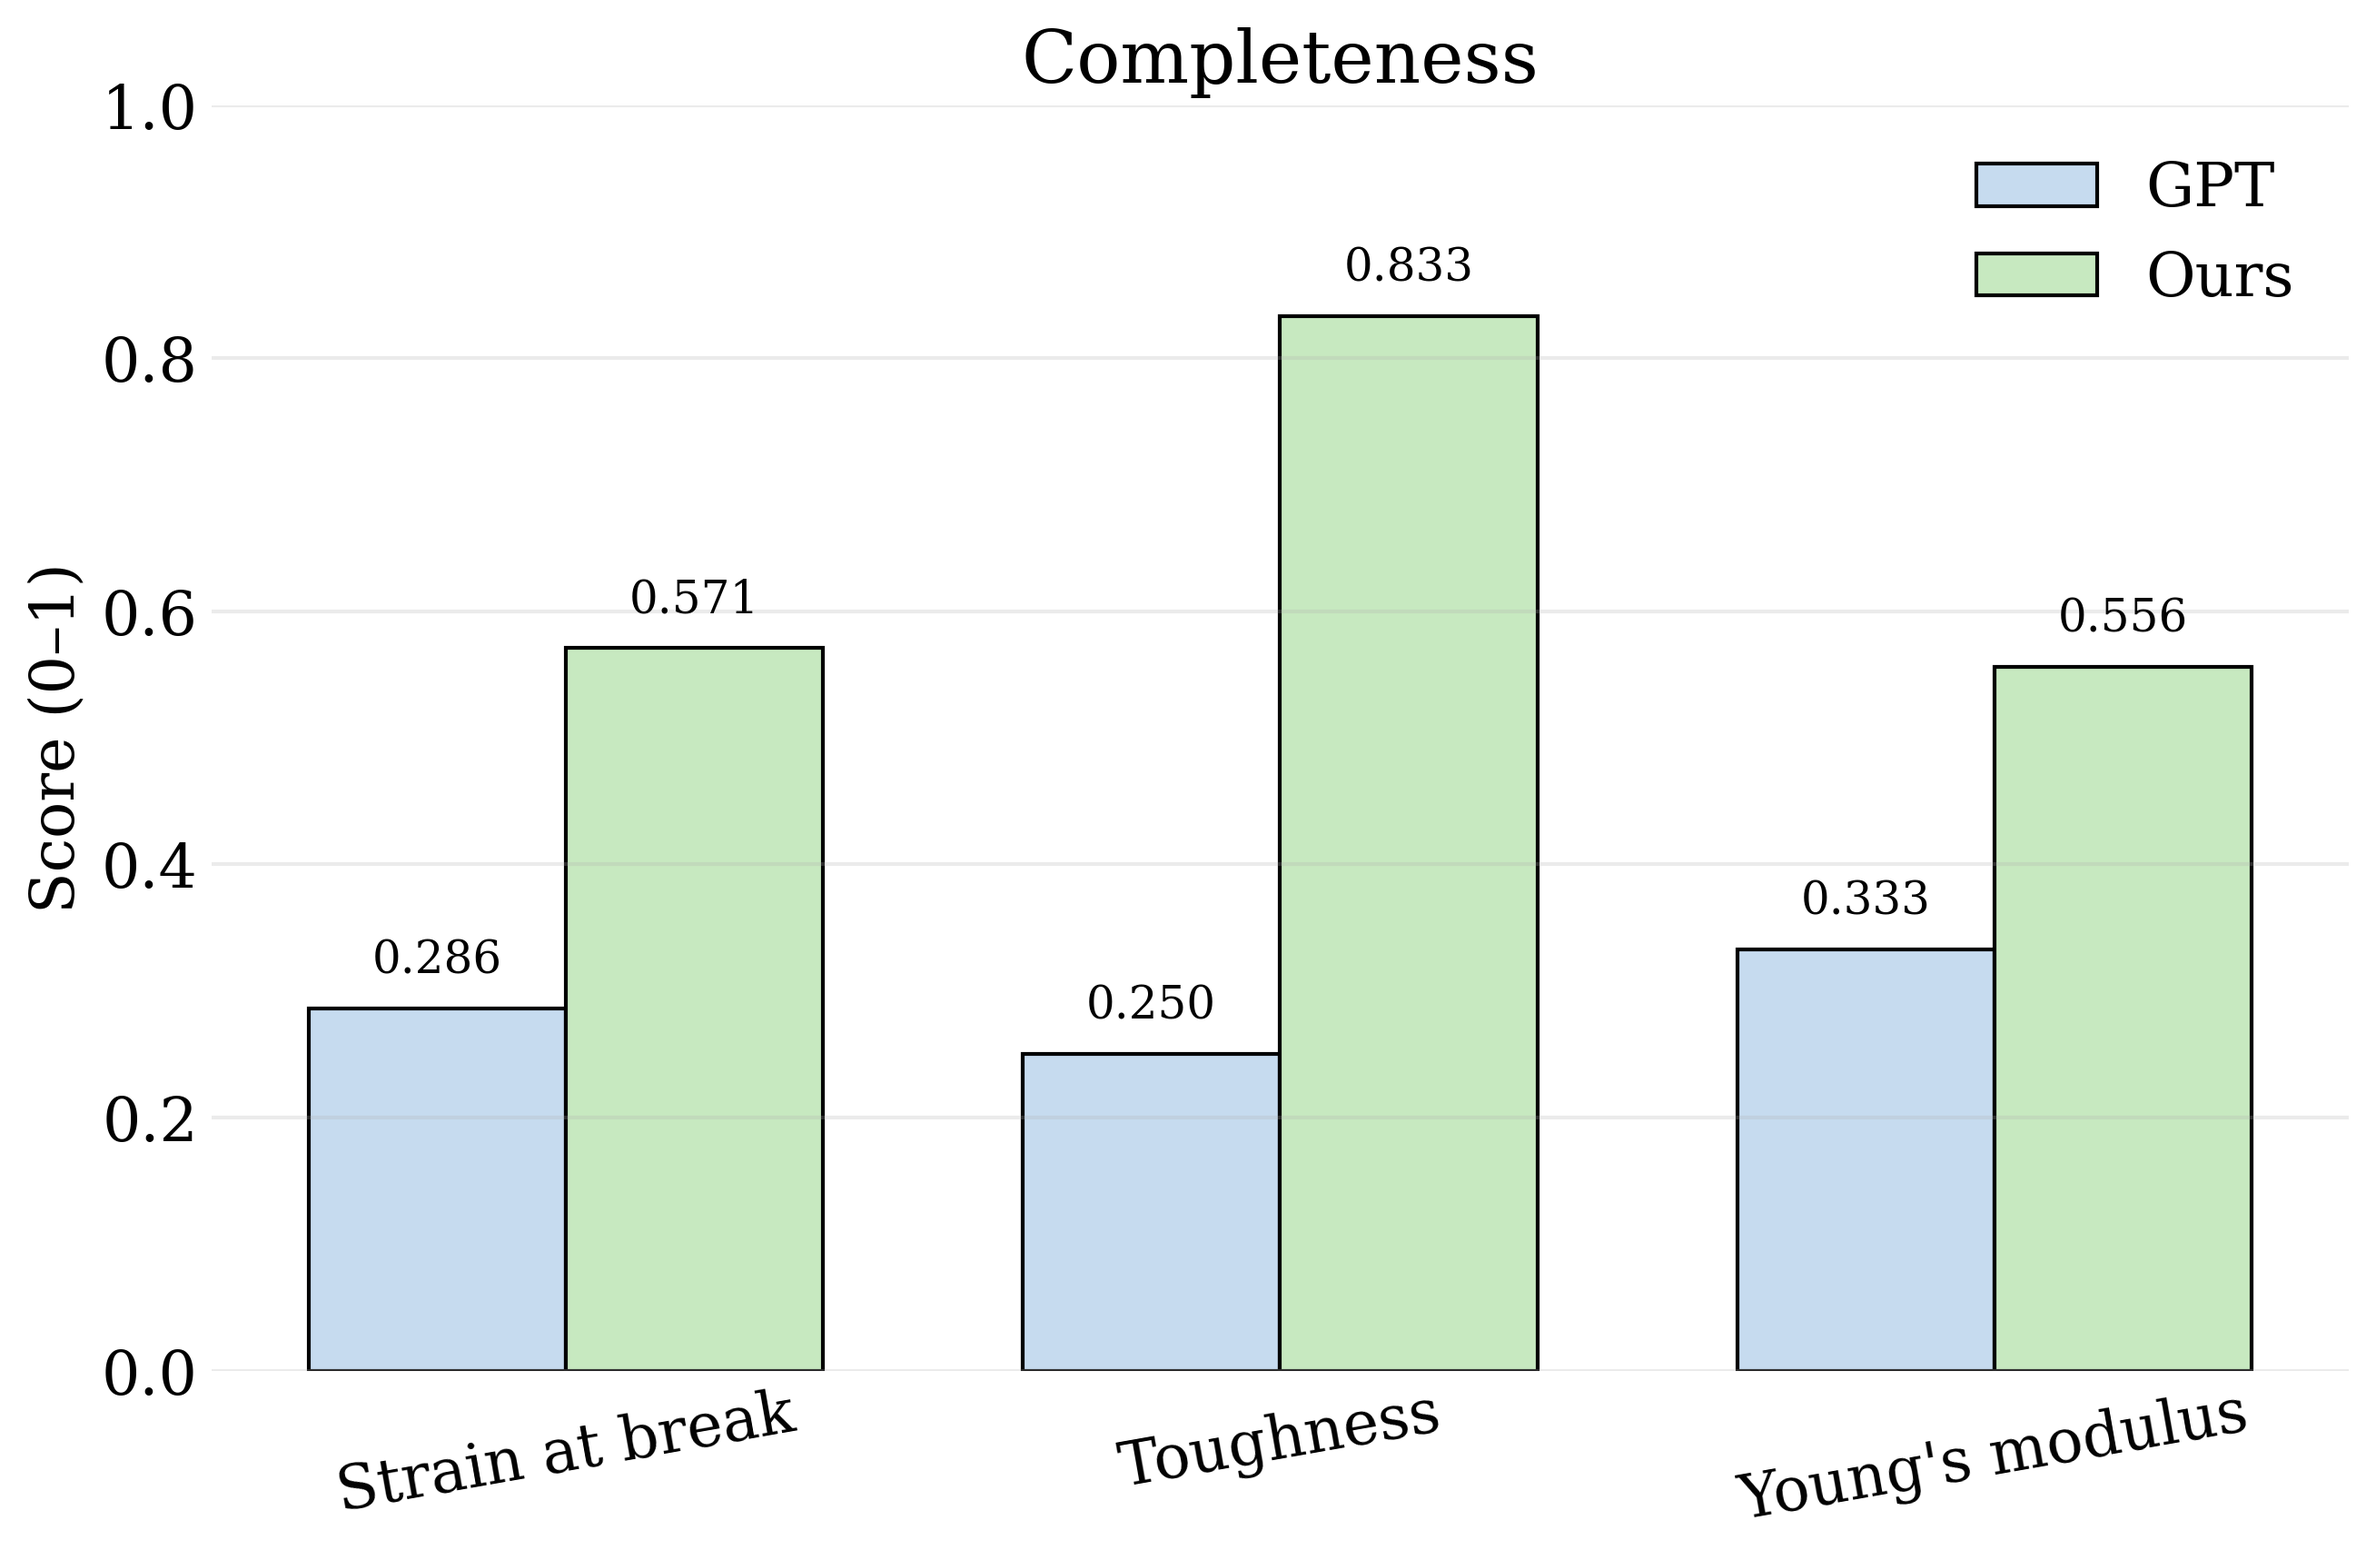
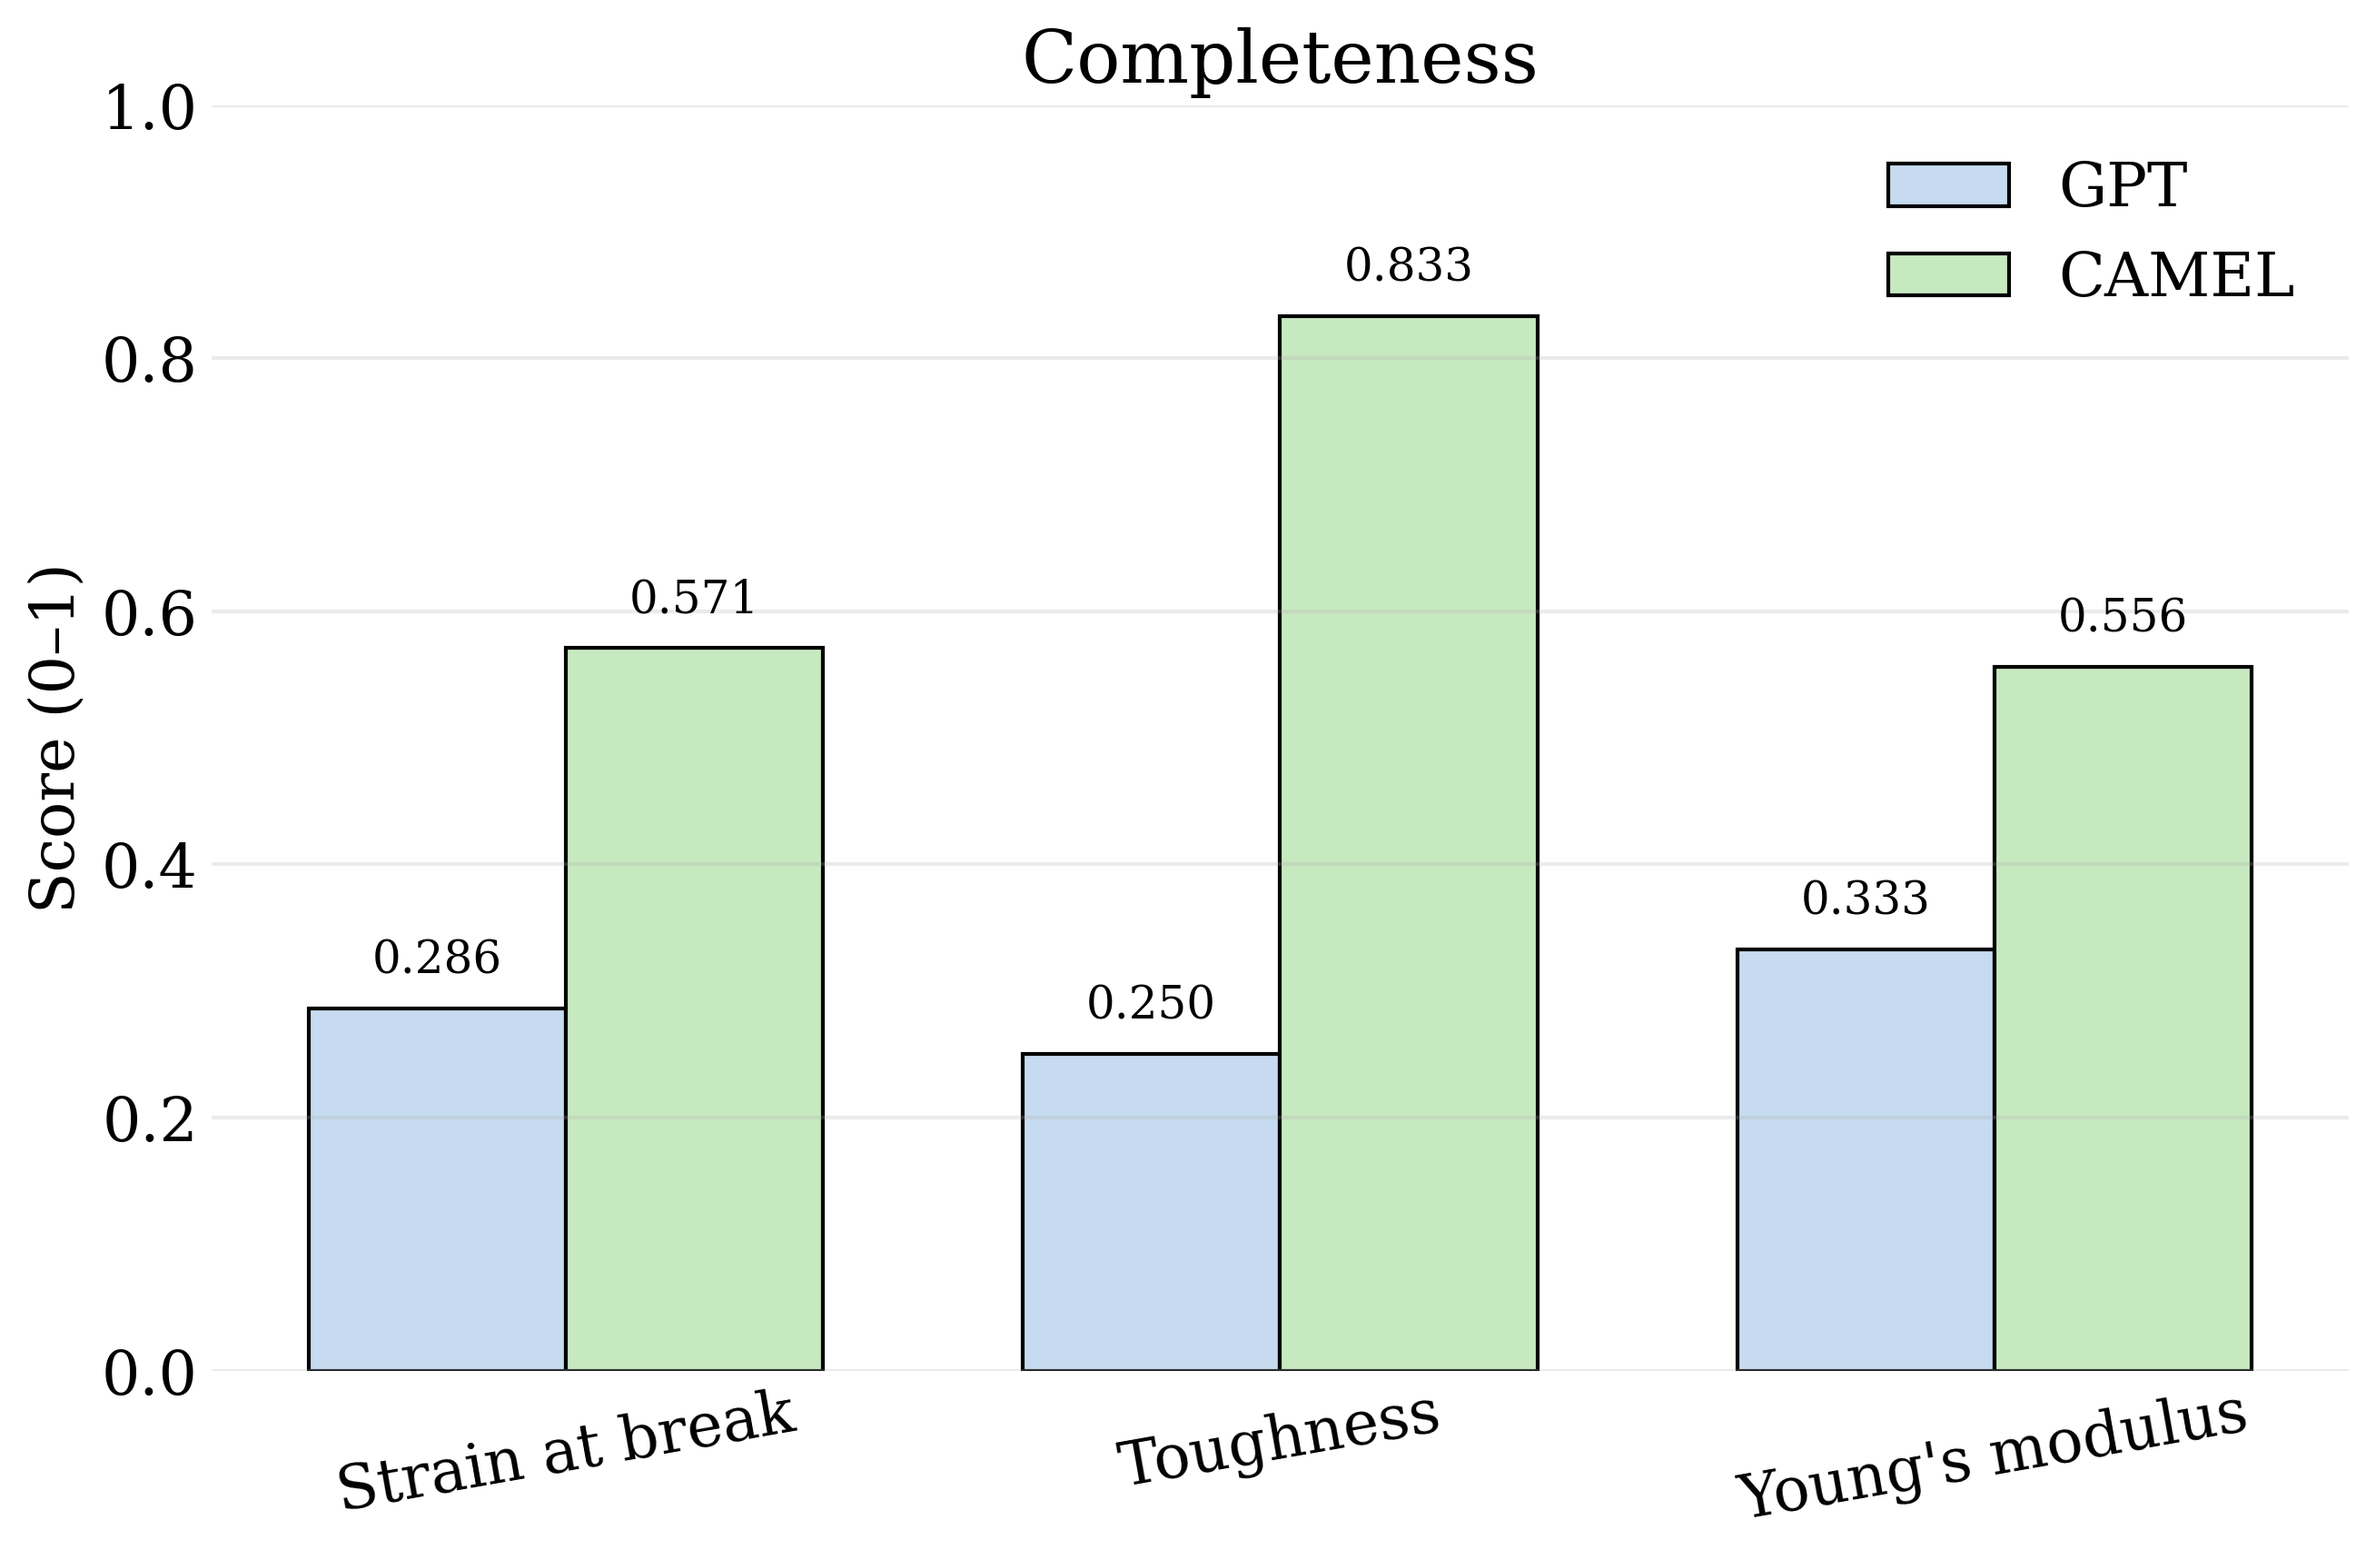
evaluation visualization

Changed region(s): [[0.7741, 0.0926, 0.9599, 0.2161]]

diff --git a/examples/evaluation_visuzalization/bar_plot.py b/examples/evaluation_visuzalization/bar_plot.py
@@ -52,7 +52,7 @@ w = 0.36
 fig, ax = plt.subplots(figsize=(9, 6))
 bars1 = ax.bar(x - w/2, gpt_vals, width=w, label='GPT',
                color=gpt_color, edgecolor='black')
-bars2 = ax.bar(x + w/2, ours_vals, width=w, label='Ours',
+bars2 = ax.bar(x + w/2, ours_vals, width=w, label='CAMEL',
                color=ours_color, edgecolor='black')
 
 ax.set_xticks(x, metrics, rotation=10)
